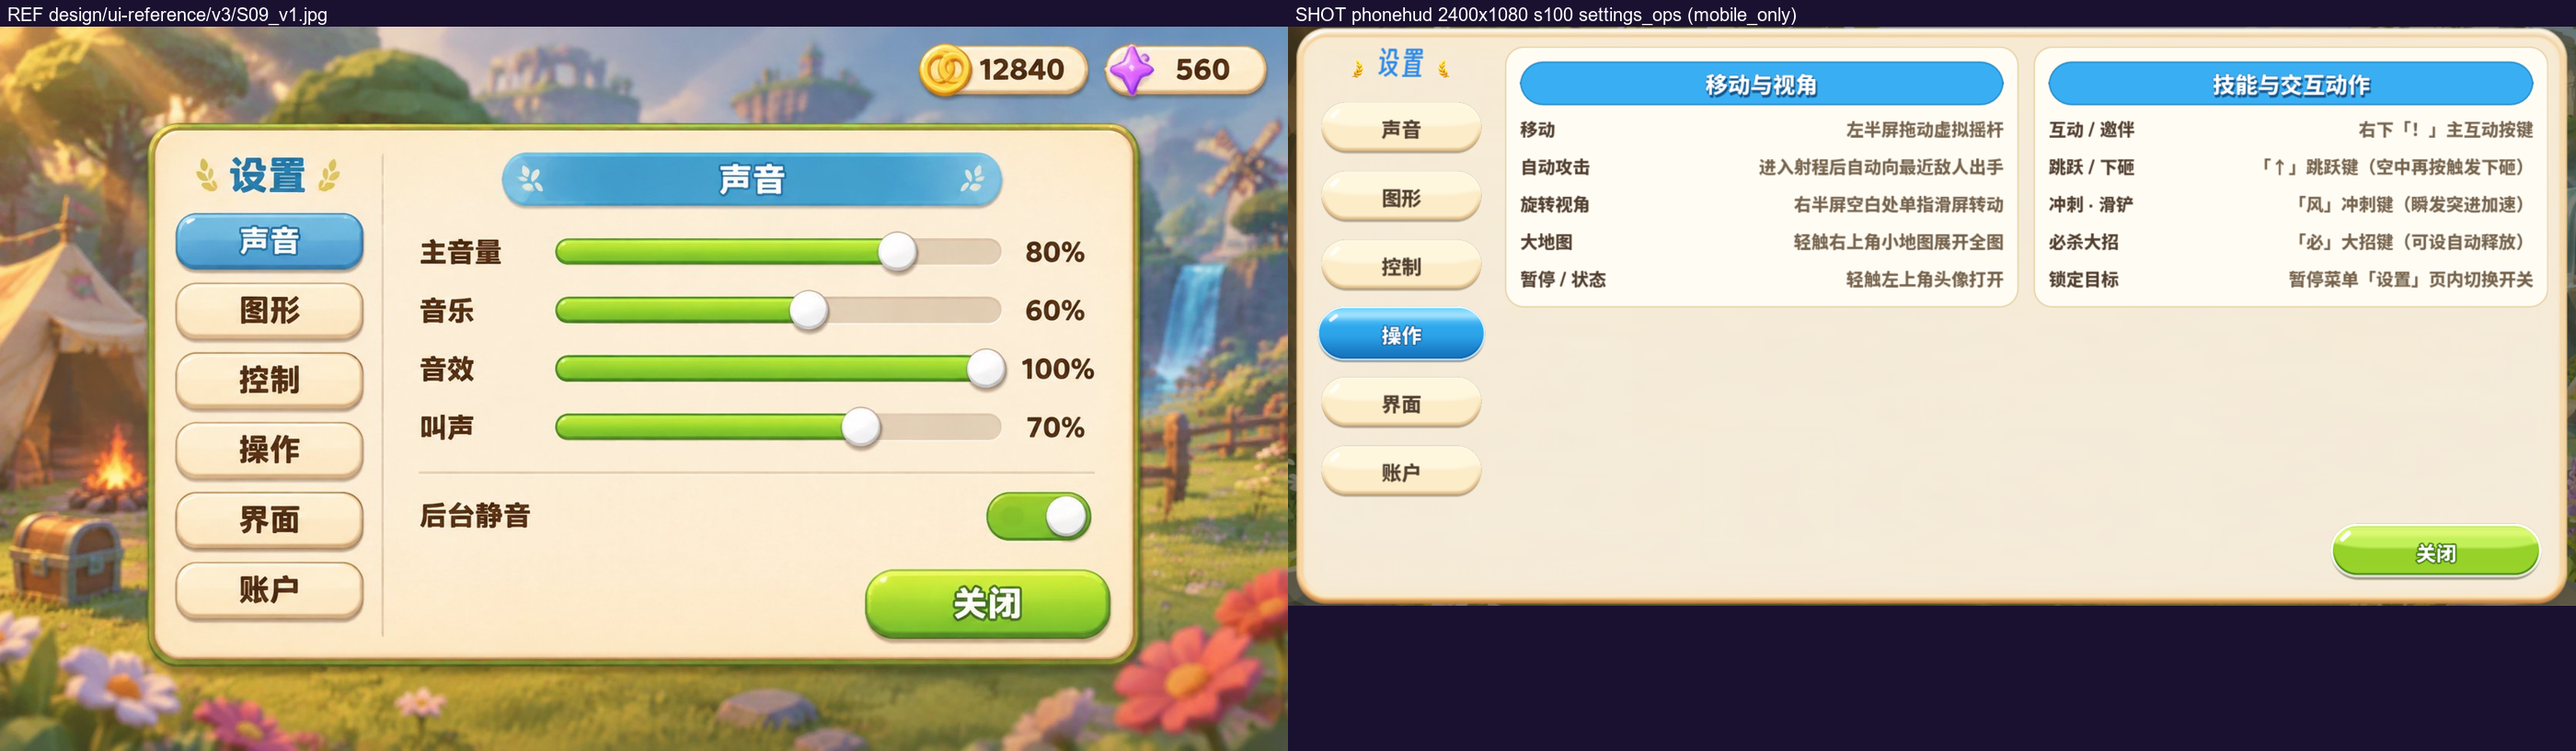
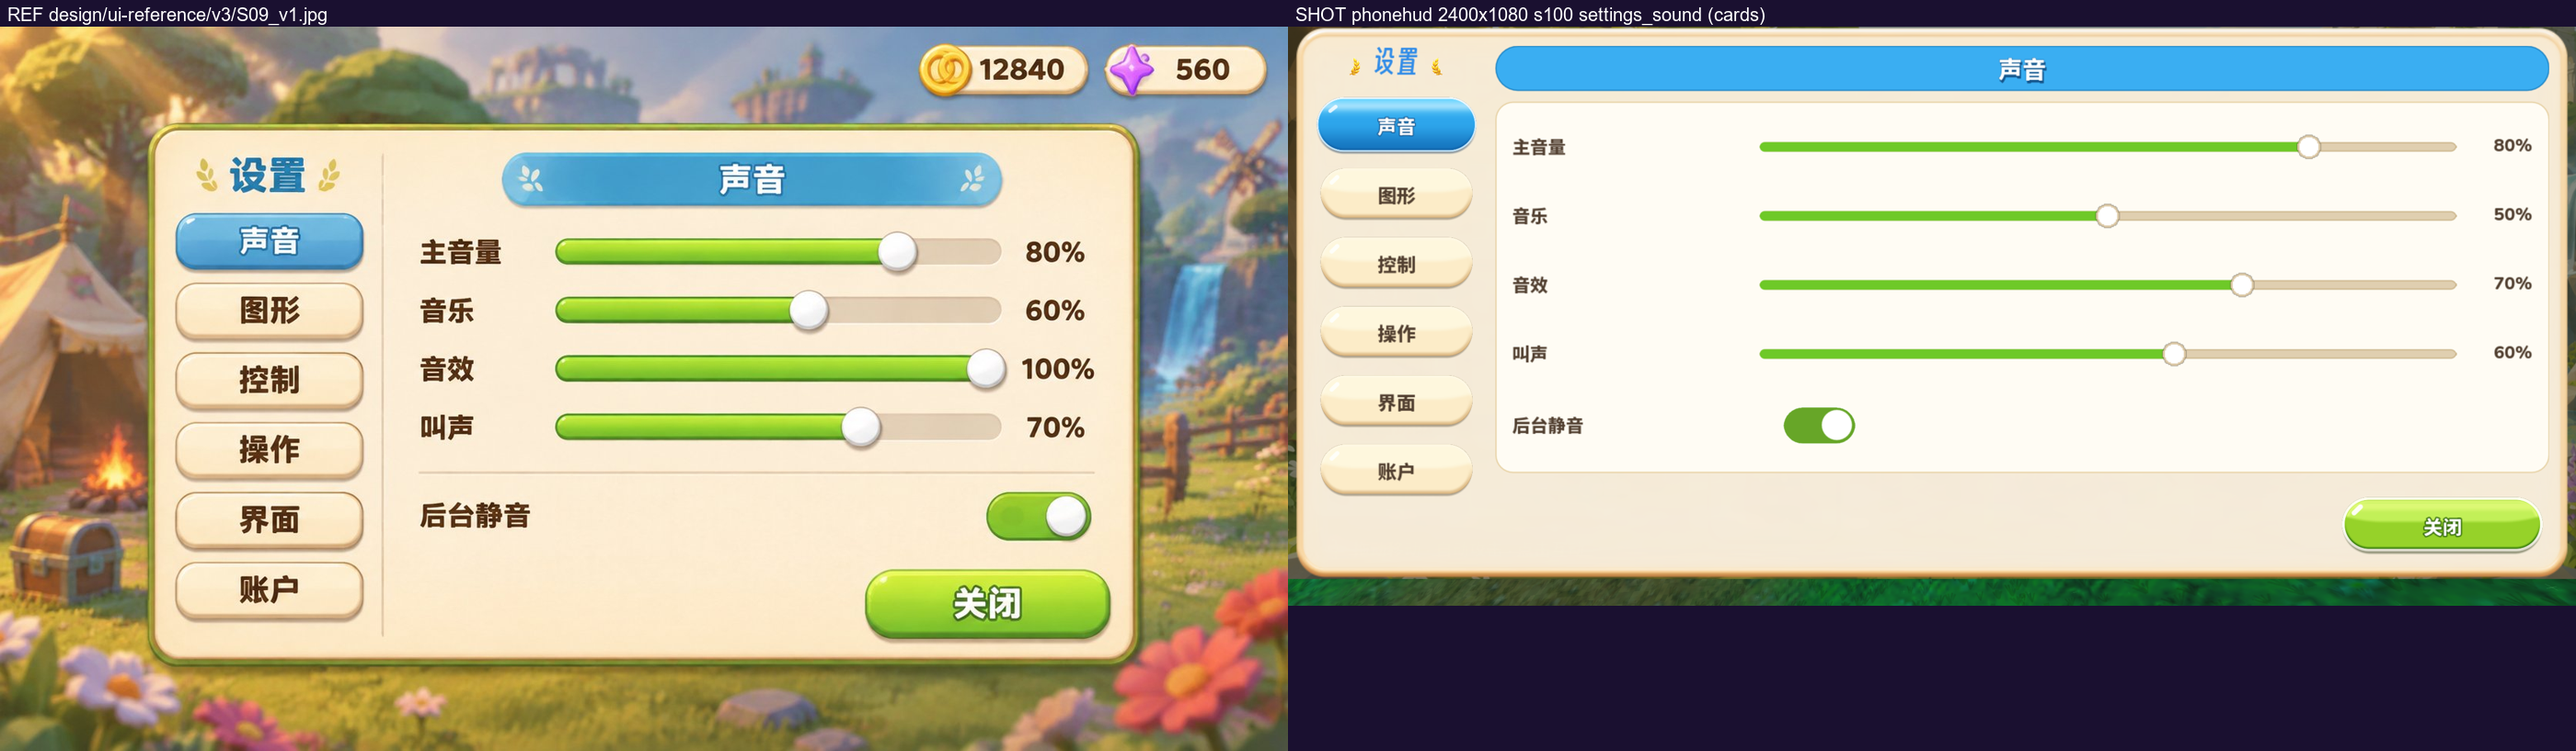
feat: 统一设置六栏卡片视觉并彻底修复账户红警按钮与控制页零滚动

Changed region(s): [[0.4971, 0.0306, 1.0, 0.8262], [0.6525, 0.0, 0.7146, 0.0306]]

diff --git a/design/ui-alignment-progress.md b/design/ui-alignment-progress.md
@@ -1688,8 +1688,18 @@ U1 已重开，U3 不得开工（见「关闭门」）。第 9 轮：2340 复验
   2. **`S15` 大地图**：为探索区加装圆角金棕相框消除纯黑边刺眼感，右侧统计区收进立体奶白圆角卡片。
   3. **`S07` 出战配置**：头像微调 `84×84` 并将左下「初始招式」升级为 **2 列网格展示**，4 招完整露出不再被裁半行。
   4. **`U5` 汇总条右护栏**：在 `prow` 末补 `14px` 右护栏 `pad_r` 确保高位数字不越过浅金胶囊弧缘（保持既定像素位置不变）。
-- 本地全部 7 核心脚本解析门全绿通过；13 屏余下界面全真机分辨截图已逐张 `Read` 审看无误并更新 `compare/{S07,S08,S15}.png`；NUC 上 `85848c6` 已过 `2400×1080`（`1564/0`）且 `2340×1080` 已行至 `1490/0`。
+- 本地全部 7 核心脚本解析门全绿通过；13 屏余下界面全真机分辨截图已逐张 `Read` 审看无误并更新 `compare/{S07,S08,S15}.png`；NUC 上 `85848c6` 已双档 `1564/0 + 1564/0` `ALLDONE`，`8faa894` 已过 `2400×1080`（`1549/0`）。
 - 本轮提交：`export_presets.cfg`、`project.godot`、`scripts/wallet.gd`、`scripts/world.gd`、`Test/phonehud.gd`、`design/ui-reference/compare/{S07,S08,S15}.png`、`design/ui-alignment-progress.md`。
+
+## 设置六大分栏卡片化统一＋账户警报卡与控制页零滚动收官（2026-11-17 18:1x）
+
+- **解决设置页实拍审计揪出的 3 项发版瑕疵（`scripts/world.gd`）**：
+  1. **账户页「晾衣杆按钮」与「重置白字鬼影」根除**：淘汰横向拉穿全屏的三条巨长按钮与落入 `button_cream` 的空心描边字；改建为上卡白框（钱包状态 + `210px` 蓝胶囊「钱包面板」、数据声明 + `240px` 「隐私政策与服务条款」）＋ 下卡淡红边框警报区配实心珊瑚红立体胶囊「重置存档」（`#e0473b` 白粗字 + 深红描边）。
+  2. **控制页一屏零滚动全显**：把 5 枚开关收纳进 `GridContainer(columns = 2)` 双列区域，紧接细分割线与 3 条全宽滑块（触控按钮大小 / 镜头距离 / 镜头灵敏度），压缩间距后彻底消除最后一行被裁与滚动条，一屏全显全部 8 项控制设定。
+  3. **全设置 6 栏统一卡片质感与法律页返回导航**：为「声音」「图形」「界面」同步外包统一圆角立体奶油白卡；为「隐私政策与服务条款」补加绿色描边激活态、白卡正文框及右上角「← 返回账户」按钮，方便手机单手无缝回退。
+- 验证：Godot 解析门 `rc=0`；已重新实拍全部 6 张设置子页图（`sub_{sound,gfx,controls,hud,account,legal}.png`）并逐张 `Read` 目检通过，更新 `design/ui-reference/compare/S09.png` 入库。
+- 本轮提交：`scripts/world.gd`、`design/ui-reference/compare/S09.png`、`design/ui-alignment-progress.md`。
+
 
 
 
